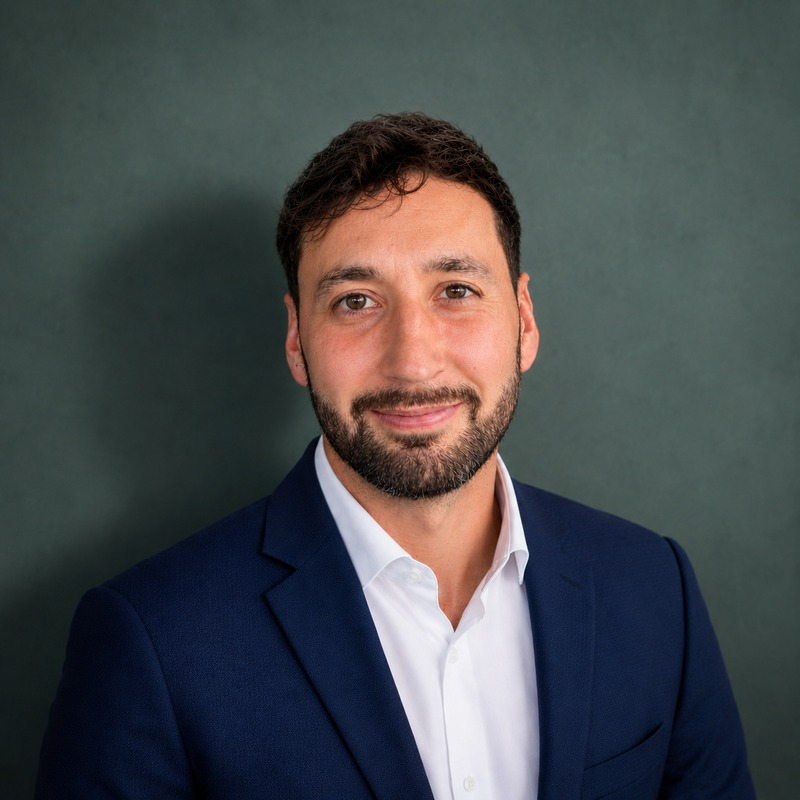
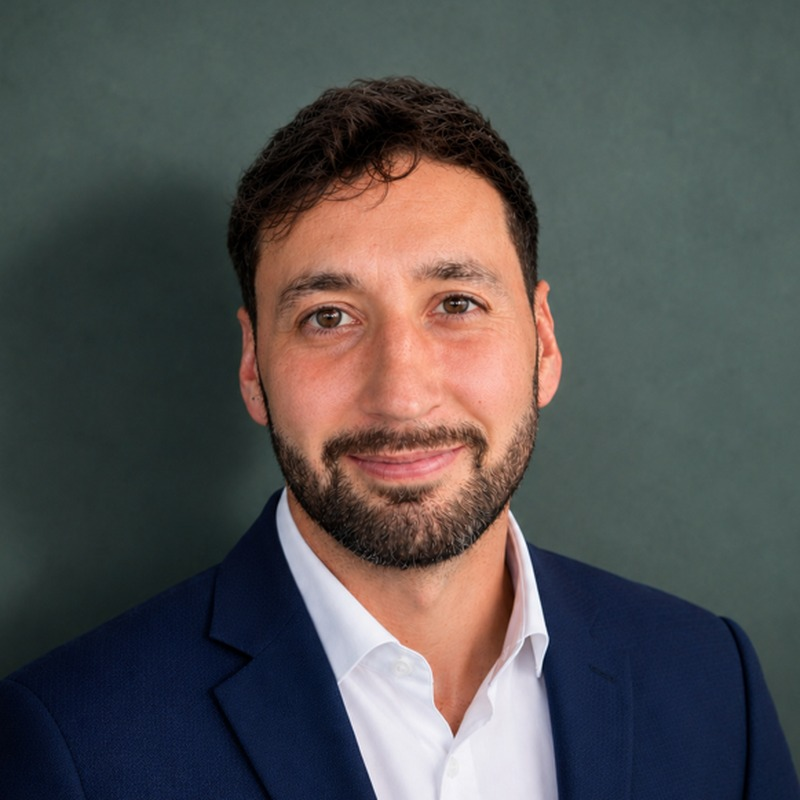
Add files via upload

diff --git a/approach.html b/approach.html
@@ -16,7 +16,8 @@
     .commit-card { background: var(--navy-card); border: 1px solid var(--border-subtle); border-radius: var(--radius-lg); padding: 32px; transition: border-color 0.2s; }
     .commit-card:hover { border-color: var(--border-amber); }
     .commit-card h3 { font-size: 17px; font-weight: 700; font-stretch: expanded; margin-bottom: 12px; display: flex; align-items: center; gap: 10px; }
-    .commit-icon { width: 32px; height: 32px; background: rgba(245,158,11,0.1); border-radius: 6px; display: flex; align-items: center; justify-content: center; color: var(--amber); font-size: 15px; flex-shrink: 0; }
+    .commit-icon { width: 32px; height: 32px; background: rgba(245,158,11,0.1); border-radius: 6px; display: inline-flex; align-items: center; justify-content: center; color: var(--amber); flex-shrink: 0; }
+    .commit-icon svg { display: block; }
     .commit-card p { font-size: 14.5px; color: var(--text-muted); line-height: 1.8; }
 
     .principles-section { padding: 72px 0; border-bottom: 1px solid var(--border-subtle); }
@@ -30,7 +31,8 @@
     .governed-section { padding: 72px 0; border-bottom: 1px solid var(--border-subtle); }
     .governed-chips { display: flex; gap: 12px; flex-wrap: wrap; margin-top: 32px; }
     .governed-chip { display: flex; align-items: center; gap: 10px; font-size: 14px; background: var(--navy-card); border: 1px solid var(--border-subtle); border-radius: var(--radius); padding: 14px 20px; }
-    .governed-chip-icon { color: var(--amber); font-size: 16px; }
+    .governed-chip-icon { color: var(--amber); display: inline-flex; align-items: center; }
+    .governed-chip-icon svg { display: block; }
 
     .honesty-full { padding: 72px 0; }
     .honesty-grid { display: grid; grid-template-columns: repeat(3,1fr); gap: 16px; margin-top: 36px; }
@@ -94,19 +96,19 @@
       <p class="section-body">These are not marketing lines. They are the standard we ask you to measure every engagement against, from a first phone call through to the last invoice.</p>
       <div class="commits-grid">
         <div class="commit-card">
-          <h3><span class="commit-icon">&#9673;</span>We listen before we pitch</h3>
+          <h3><span class="commit-icon"><svg width="16" height="16" viewBox="0 0 24 24" fill="none" stroke="currentColor" stroke-width="1.8" stroke-linecap="round" stroke-linejoin="round"><circle cx="12" cy="12" r="9"/><circle cx="12" cy="12" r="4.5"/><circle cx="12" cy="12" r="0.8" fill="currentColor"/></svg></span>We listen before we pitch</h3>
           <p>Every engagement starts with discovery. We will not propose a solution before we understand your operations, your people, and what you are actually trying to fix. If we recommend something in the first conversation, that is a red flag, not a good sign.</p>
         </div>
         <div class="commit-card">
-          <h3><span class="commit-icon">&#128172;</span>We speak your language</h3>
+          <h3><span class="commit-icon"><svg width="16" height="16" viewBox="0 0 24 24" fill="none" stroke="currentColor" stroke-width="1.8" stroke-linecap="round" stroke-linejoin="round"><path d="M21 11.5a8.38 8.38 0 0 1-.9 3.8 8.5 8.5 0 0 1-7.6 4.7 8.38 8.38 0 0 1-3.8-.9L3 21l1.9-5.7a8.38 8.38 0 0 1-.9-3.8 8.5 8.5 0 0 1 4.7-7.6 8.38 8.38 0 0 1 3.8-.9h.5a8.48 8.48 0 0 1 8 8v.5z"/></svg></span>We speak your language</h3>
           <p>No talk of large language models, transformers, or agents unless you want to go there. If we cannot explain something in plain English, we do not understand it well enough yet to be charging you for it.</p>
         </div>
         <div class="commit-card">
-          <h3><span class="commit-icon">&#128296;</span>We build working things</h3>
+          <h3><span class="commit-icon"><svg width="16" height="16" viewBox="0 0 24 24" fill="none" stroke="currentColor" stroke-width="1.8" stroke-linecap="round" stroke-linejoin="round"><path d="M14.7 6.3a1 1 0 0 0 0 1.4l1.6 1.6a1 1 0 0 0 1.4 0l3.77-3.77a6 6 0 0 1-7.94 7.94l-6.91 6.91a2.12 2.12 0 0 1-3-3l6.91-6.91a6 6 0 0 1 7.94-7.94l-3.76 3.76z"/></svg></span>We build working things</h3>
           <p>There is a difference between a consultancy that hands you a strategy deck and one that ships. The AI feature on our own site is ours, built by us, running live in production, not a mock-up for a sales call.</p>
         </div>
         <div class="commit-card">
-          <h3><span class="commit-icon">&#9888;</span>We are honest about limitations</h3>
+          <h3><span class="commit-icon"><svg width="16" height="16" viewBox="0 0 24 24" fill="none" stroke="currentColor" stroke-width="1.8" stroke-linecap="round" stroke-linejoin="round"><path d="M12 3.5 2.5 20h19L12 3.5z"/><line x1="12" y1="10" x2="12" y2="14.5"/><circle cx="12" cy="17.2" r="0.9" fill="currentColor" stroke="none"/></svg></span>We are honest about limitations</h3>
           <p>AI cannot solve everything. We will flag the risks, name the things that will not work, and tell you when the answer is no, even when saying yes would be more profitable for us in the short term.</p>
         </div>
       </div>
@@ -151,9 +153,9 @@
       <h2 class="section-title">Governance is not paperwork. It is how we work.</h2>
       <p class="section-body">Every engagement is delivered with the same underlying discipline, regardless of size or budget.</p>
       <div class="governed-chips">
-        <span class="governed-chip"><span class="governed-chip-icon">&#128274;</span>Security-led delivery</span>
-        <span class="governed-chip"><span class="governed-chip-icon">&#9878;</span>Governance and compliance</span>
-        <span class="governed-chip"><span class="governed-chip-icon">&#128101;</span>People and adoption</span>
+        <span class="governed-chip"><span class="governed-chip-icon"><svg width="16" height="16" viewBox="0 0 24 24" fill="none" stroke="currentColor" stroke-width="1.8" stroke-linecap="round" stroke-linejoin="round"><path d="M12 3 4.5 5.8V11c0 5 3.2 8.9 7.5 10.5C16.3 19.9 19.5 16 19.5 11V5.8L12 3z"/><path d="M9 12l2 2 4-4"/></svg></span>Security-led delivery</span>
+        <span class="governed-chip"><span class="governed-chip-icon"><svg width="16" height="16" viewBox="0 0 24 24" fill="none" stroke="currentColor" stroke-width="1.8" stroke-linecap="round" stroke-linejoin="round"><line x1="12" y1="3" x2="12" y2="21"/><line x1="5" y1="7" x2="19" y2="7"/><path d="M5 7 2 13a3.5 3.5 0 0 0 6 0L5 7z"/><path d="M19 7l-3 6a3.5 3.5 0 0 0 6 0l-3-6z"/><line x1="9" y1="21" x2="15" y2="21"/></svg></span>Governance and compliance</span>
+        <span class="governed-chip"><span class="governed-chip-icon"><svg width="16" height="16" viewBox="0 0 24 24" fill="none" stroke="currentColor" stroke-width="1.8" stroke-linecap="round" stroke-linejoin="round"><circle cx="9" cy="8" r="3.2"/><path d="M3.5 20c0-3.6 2.5-6 5.5-6s5.5 2.4 5.5 6"/><circle cx="17" cy="9" r="2.4"/><path d="M15.5 13.2c2.4.3 4 2.3 4 4.8v2"/></svg></span>People and adoption</span>
       </div>
     </div>
   </section>

diff --git a/about.html b/about.html
@@ -118,10 +118,8 @@
         <div class="about-text">
           <div class="section-label">Our story</div>
           <h2 class="section-title">Built on delivery. Focused on what works.</h2>
-          <p>Velyntic was founded by someone who spent fifteen years leading teams through situations where precision, governance, and human judgment were not optional extras. Five of those years were in special operations, planning and executing complex programmes across multiple countries, often with incomplete information and high stakes.</p>
-          <p>That background does not make us better at AI than anyone else. But it does mean we approach every engagement with a level of rigour that most AI consultancies simply have not built. We plan before we act. We govern before we scale. We document so the knowledge stays with you when we are done.</p>
-          <p>Velyntic focuses on SMEs because that is where the gap is largest. The big consultancies are not interested in your twenty-person business, and the freelancers you find online do not have the delivery framework to see a transformation through from assessment to sustained adoption. We built Velyntic to sit in that space.</p>
-          <p>We do not chase volume. Every client we take on is a client we believe we can genuinely help. If SIGNAL tells us AI is not the right priority for your business right now, we will tell you that too.</p>
+          <p>Velyntic was founded by someone who spent fifteen years leading teams through high-stakes, precision-critical work, including five years in special operations planning complex programmes with incomplete information. That rigour now shapes how we deliver AI: plan before we act, govern before we scale, document so the knowledge stays with you.</p>
+          <p>We focus on SMEs because that is where the gap is largest, and we do not chase volume. If SIGNAL tells us AI is not the right priority for your business right now, we will tell you that too.</p>
           <a href="contact.html" class="btn btn-outline">Work with us</a>
         </div>
         <div class="credentials">

diff --git a/contact.html b/contact.html
@@ -136,12 +136,12 @@
                 <label for="service">Service you are interested in <span style="color:var(--amber)">*</span></label>
                 <select id="service" name="service" required>
                   <option value="" disabled selected>Select a service</option>
-                  <option value="SIGNAL Assessment">SIGNAL Assessment (£2,000)</option>
-                  <option value="Starter Web Presence">Starter Web Presence (£500 to £1,500)</option>
-                  <option value="AI Web Build">AI Web Build (£4,500 to £12,000)</option>
-                  <option value="Brand Foundation">Brand Foundation (from £800)</option>
-                  <option value="AI Consultancy">AI Consultancy (£550 to £850/day)</option>
-                  <option value="EVOLVE Partnership">EVOLVE Partnership (from £450/month)</option>
+                  <option value="SIGNAL Assessment">SIGNAL Assessment</option>
+                  <option value="Starter Web Presence">Starter Web Presence</option>
+                  <option value="AI Web Build">AI Web Build</option>
+                  <option value="Brand Foundation">Brand Foundation</option>
+                  <option value="AI Consultancy">AI Consultancy</option>
+                  <option value="EVOLVE Partnership">EVOLVE Partnership</option>
                   <option value="Not sure yet">Not sure yet</option>
                 </select>
               </div>

diff --git a/css/styles.css b/css/styles.css
@@ -531,15 +531,15 @@ textarea { min-height: 110px; resize: vertical; }
 /* ============================================================
    LIVE / DELIVERED STATUS BADGES
    Consistent green badge style used for "Live implementation"
-   and "Delivered" tags — vivid, pulsing dot, bold caps.
+   and "Delivered" tags — vivid, pulsing dot, full pill shape.
    ============================================================ */
 .badge-live {
-  display: inline-flex; align-items: center; gap: 7px;
-  font-size: 10px; font-weight: 700; letter-spacing: 0.09em; text-transform: uppercase;
+  display: inline-flex; align-items: center; gap: 8px;
+  font-size: 11px; font-weight: 700; letter-spacing: 0.09em; text-transform: uppercase;
   color: #4ADE80;
-  background: rgba(34,197,94,0.12);
-  border: 1px solid rgba(74,222,128,0.4);
-  padding: 5px 11px; border-radius: 4px;
+  background: rgba(34,197,94,0.1);
+  border: 1px solid rgba(74,222,128,0.45);
+  padding: 6px 14px; border-radius: 999px;
   margin-bottom: 16px;
 }
 .badge-live-dot {
